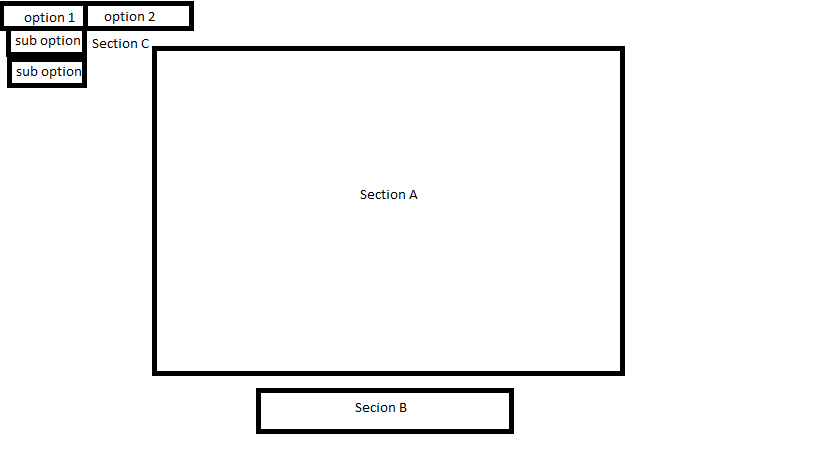
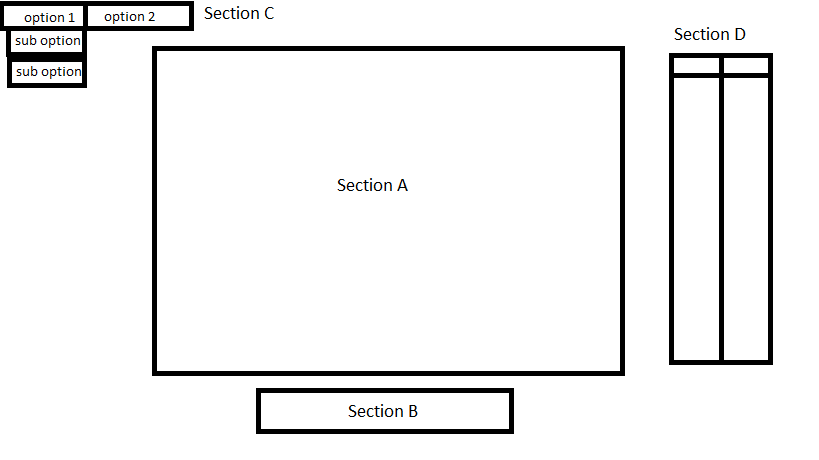
updates -AB

diff --git a/Requirements/requirements.tex b/Requirements/requirements.tex
@@ -73,6 +73,7 @@ This section contains all the software requirements.
 Our product will be a self-contained product. 
 Our product's interface will consist of a window where the user can activate the camera and velocity tracking.
 There will be a menu bar in the application that will allow the user to specify aspects of the product, as shown by Section C in the picture A below.
+There will be a table on the side of the application, Section D of picture A, that will have a list objects being tracked and their speed.
 Our products application window will consist of a small button row at the bottom for essential buttons, such as the start and stop buttons, as depicted in Section B of picture A below.
 The application will have a central section for displaying the video captured by the camera with our information overlay, such as Section A of picture A below.
 We will be using computer vision software in order to identify the type of object and track its location across the frame.
@@ -100,14 +101,26 @@ The software will then be able to acquire the velocity at which the objects are 
 %REWRITE 
 \subsection{User Characteristics}
 %This software is intended to be used by many different users.
-%The types of users are broken down into two categories: users who wish to track cars, users who wish to track people.
-%These users have different use for the product but the software should work the same way for both users.
+% The types of users are broken down into two categories: users who wish to track cars, users who wish to track people.
+% These users have different use for the product but the software should work the same way for both users.
 
-Users who wish to track cars may use the product to detect the velocity of a moving car on the road.
-This means the user will set the stationary camera and point it in the direction of moving vehicles to obtain the velocity.
+% Users who wish to track cars may use the product to detect the velocity of a moving car on the road.
+% This means the user will set the stationary camera and point it in the direction of moving vehicles to obtain the velocity.
 
-Users who wish to track the velocity of people may also use the product.
-These users will follow the same procedure as the other users but instead, the software will detect the velocity of people.
+% Users who wish to track the velocity of people may also use the product.
+% These users will follow the same procedure as the other users but instead, the software will detect the velocity of people.
+
+This software is intended to be used by many different users. 
+Because we have yet to decide on the specific type of object to track, the education level and experience. 
+However, because our product is meant to replace current methods of object velocity tracking, such as the radar gun, our intended users will not need a high education or experience level. 
+In fact it will probably be expected taht minimal training is needed to operate our product.
+
+In order to examine the possible users for our product, we will examine possible object types.
+
+If we decide to use cars as our object type, the main users would be police officers, to be used in enforcing speed limits. 
+In this case the user would have good education level, but likely not high technical expertise.
+
+If we decide to use people as our object type, then the main users will likely be analysists, analysis human movement patterns and speeds in various contexts such as sports or emergency evacuation. In this case, our users will be highly educated, but they too would likely not have high technical expertise.
 
 \subsection{Constraints}
 This product will likely require a nontrivial amount of resources to perform its task at the constant interval we require.
@@ -120,11 +133,12 @@ The product's reliability of use can be described in a number of ways.
 The camera should be recording at a constant and stable rate.
 The objects in the scene should be properly identified with 70\% accuracy.
 The tracking of an identified object's velocity should be within 90\% of the objects actual velocity.
-The velocity tracking should also be reliably given every 0.5 seconds, without any notable dips in rate of recording and processing.
+%The velocity tracking should also be reliably given every 0.5 seconds, without any notable dips in rate of recording and processing.
+The velocity tracking should also be reliably given every 0.5 seconds, with 30 frames per second 90\% of the time.
 
 While the video recorded is protected by federal laws, the information nonetheless must meet certain security standards.
 If the video data is to be saved locally, it should also respect encryption of the product it is saved on.
-Should the video be live streamed to a remote location, it must enter a stable connection to deliver to the intended viewer.
+%Should the video be live streamed to a remote location, it must enter a stable connection to deliver to the intended viewer.
 
 \subsection{Assumptions and Dependencies}
 We assume that if our products camera needs to move that our product would be able to either handle the motion of the camera and still be able to track velocities or be mounted securely enough to minimize motion of the camera, allowing the product to track velocities.
@@ -153,6 +167,13 @@ The velocities returned are within 90\% of the objects' true speeds, as stated a
 %Max effective view distance of 100m
 The product will accurately work within 100m of the camera's placement.
 Objects within 100m of the camera's placement, within its view angle and with an unobstructed line of sight, should all be able to be identified by the camera, reflecting the accuracy requirements described above.
-Objects beyond the maximum effective range can potentially still be identified if the conditions allow, but are not granted the same accuracy guaranty.
+Objects beyond the maximum effective range can potentially still be identified if the conditions allow, but are not granted the same accuracy guarantee.
+%User interface
+Our product's interface will consist of a window where the user can activate the camera and velocity tracking as well as view the camera input live, with squares surrounding each object being tracked and speeds posted below the squares.
+There will be a menu bar in the application that will allow the user to specify aspects of the product, as shown by Section C in the picture A above.
+There will be a table on the side of the application, Section D of picture A, that will have a list objects being tracked and their speed.
+These values will be saved to a comma separated value text document for later analysis.
+Our products application window will consist of a small button row at the bottom for essential buttons, such as the start and stop buttons, as depicted in Section B of picture A above.
+The application will have a central section for displaying the video captured by the camera with our information overlay, such as Section A of picture A above.
 
 \end{document}
